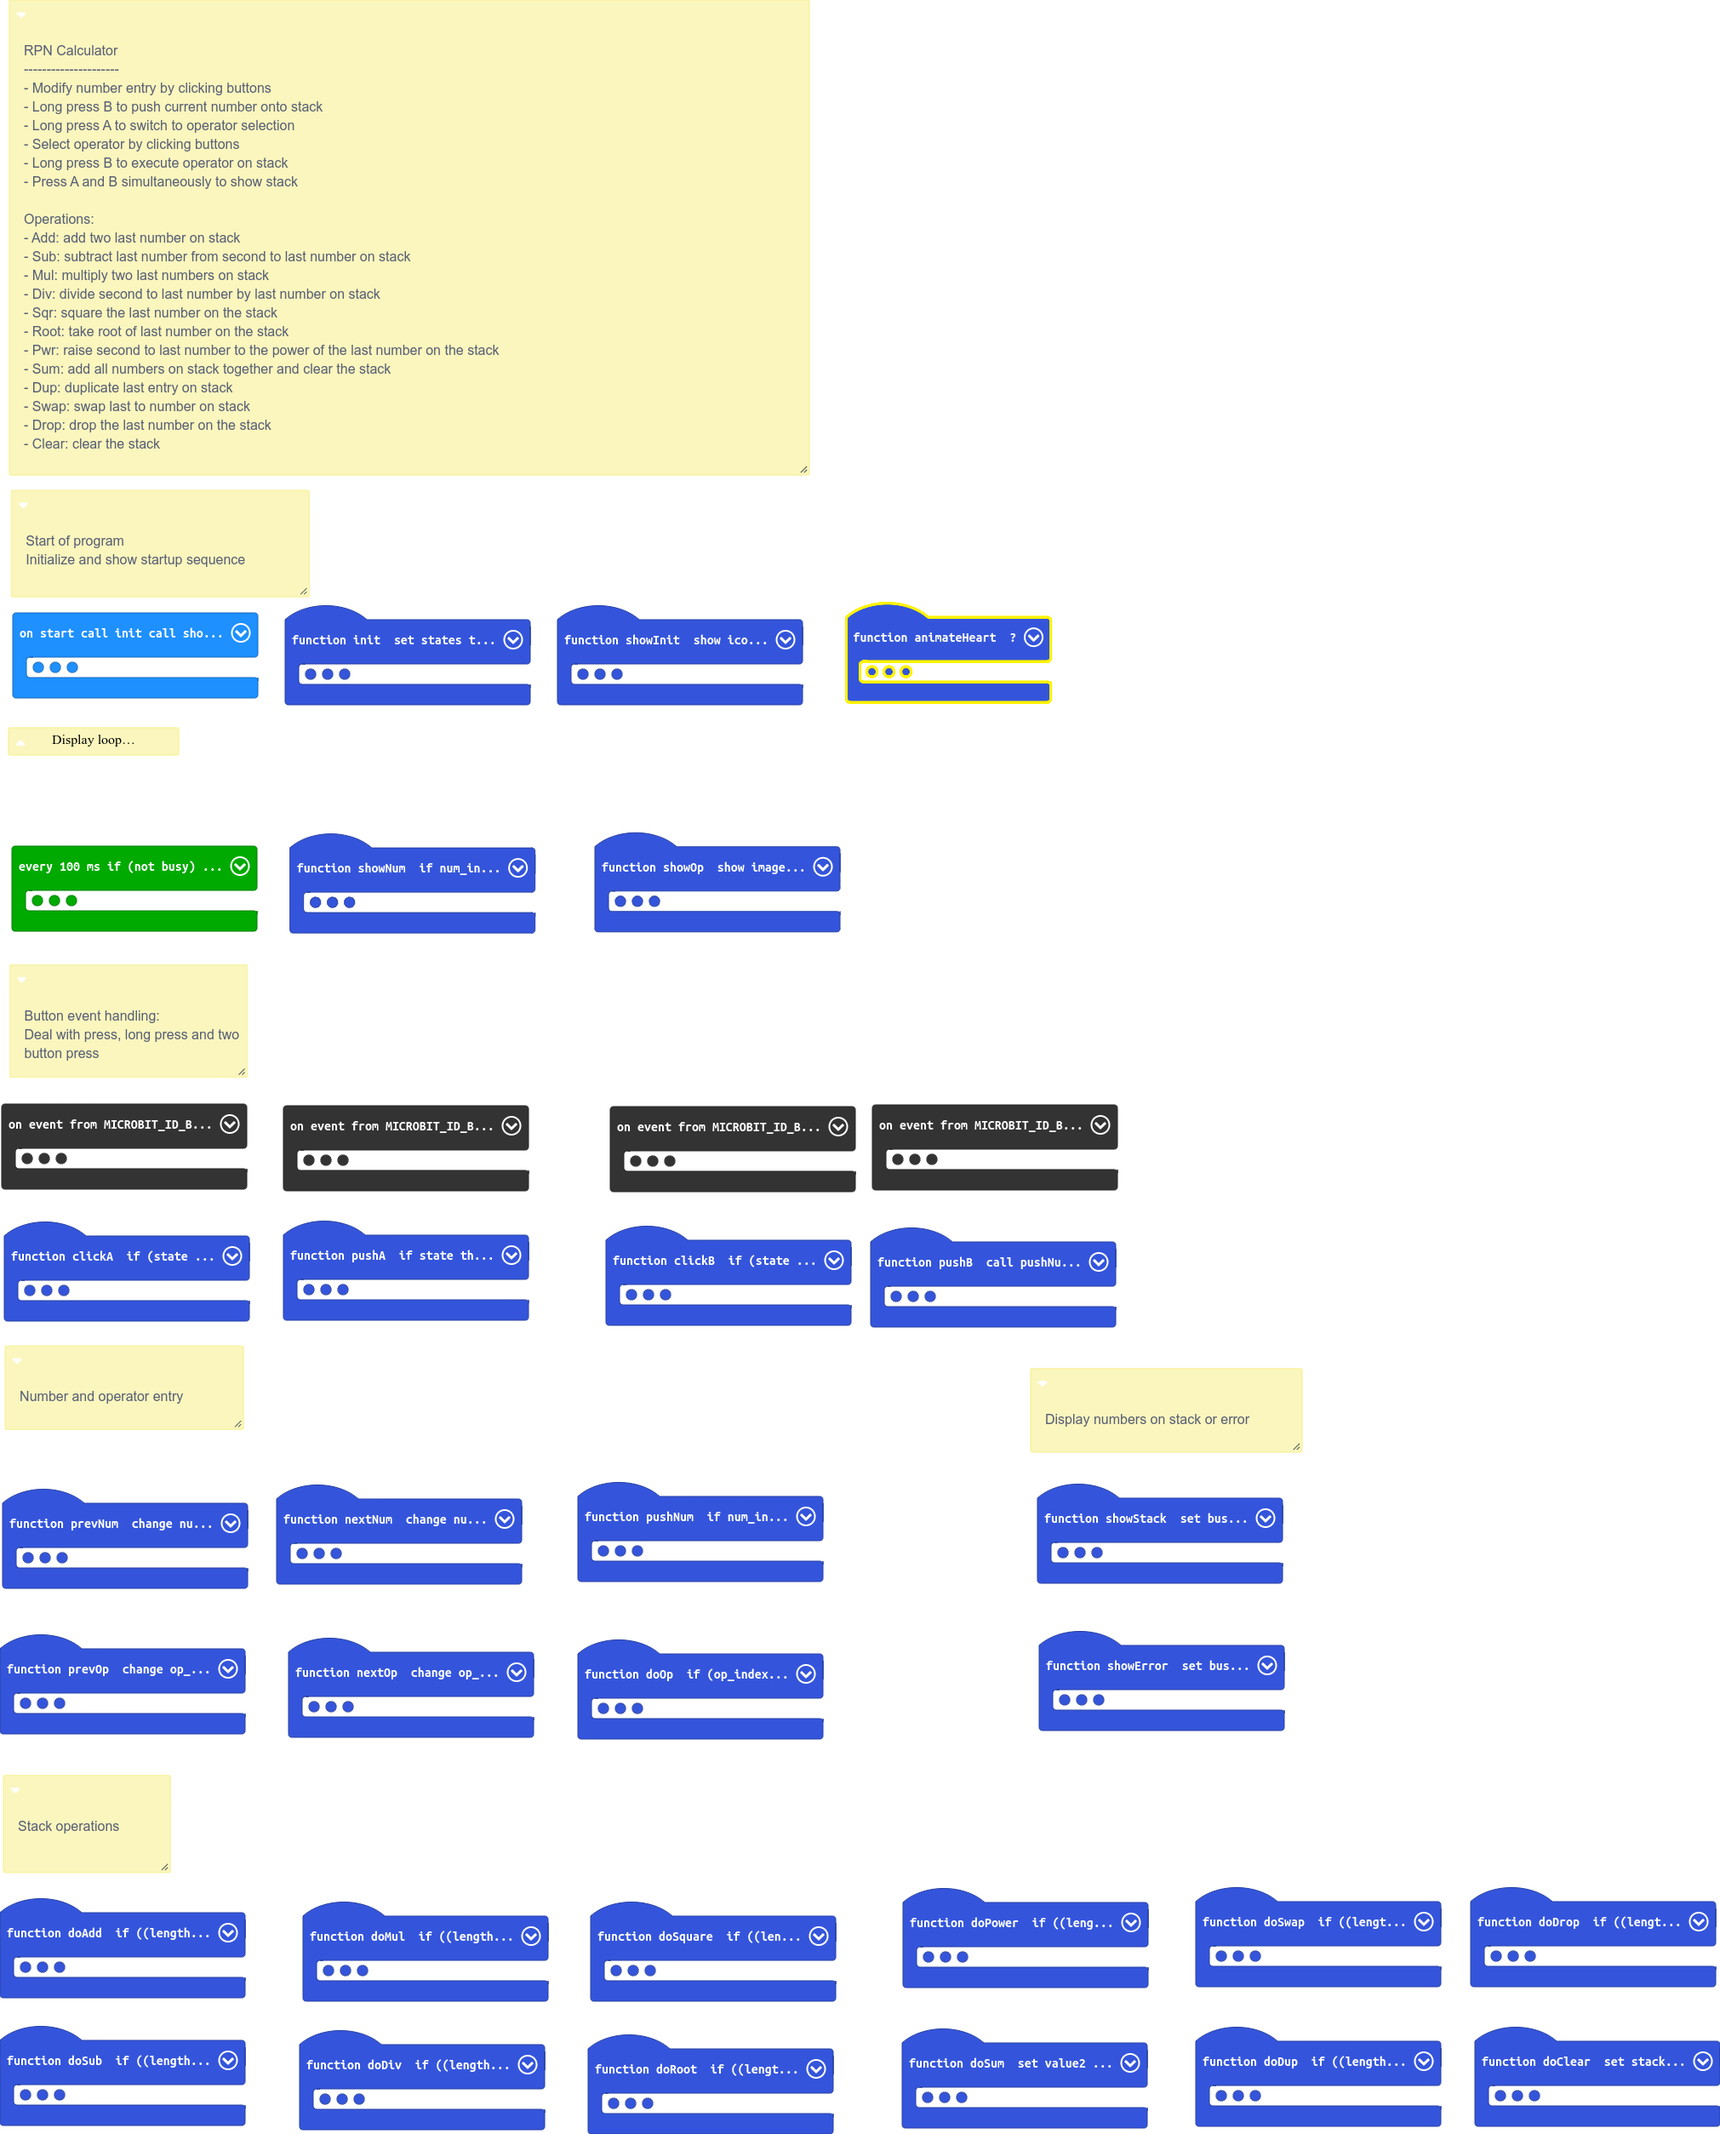
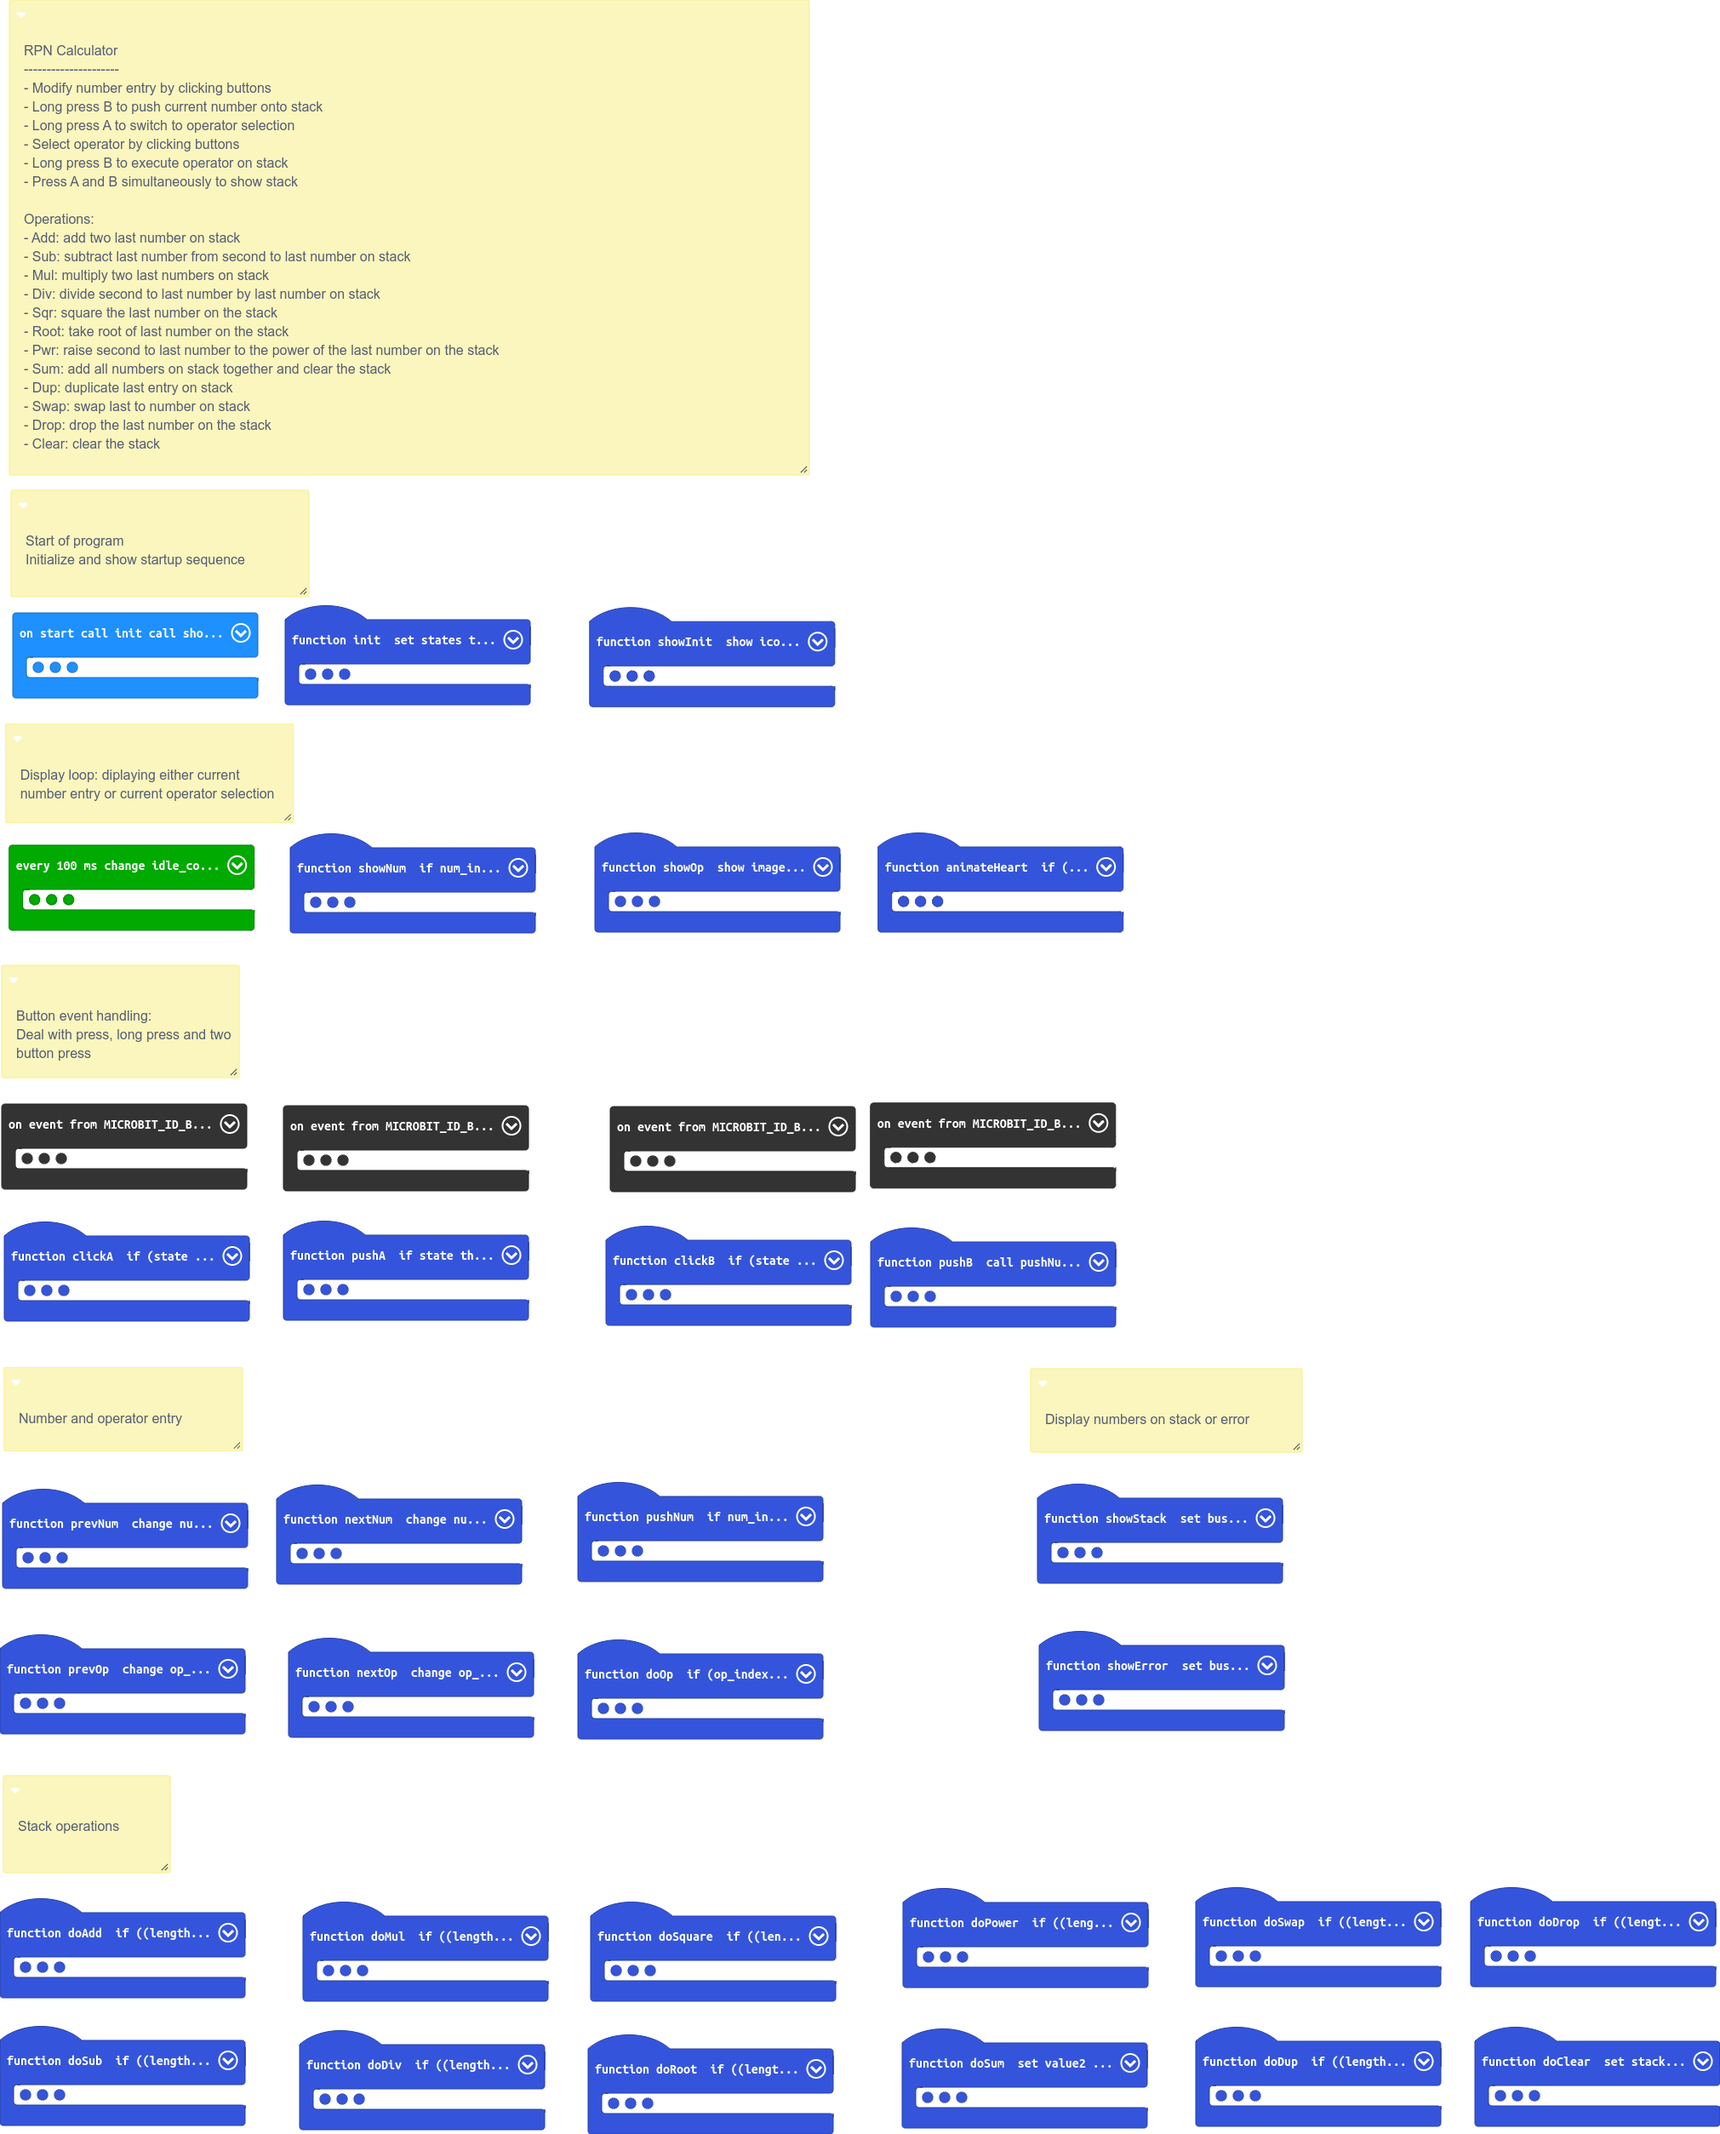
Add screen saver

diff --git a/main.ts b/main.ts
@@ -147,19 +147,22 @@ function doSquare () {
     }
 }
 control.onEvent(EventBusSource.MICROBIT_ID_BUTTON_A, EventBusValue.MICROBIT_BUTTON_EVT_UP, function () {
-    if (button_a) {
-        if (button_b) {
-            button_b = 0
-            showStack()
-        } else {
-            button_a = control.eventTimestamp() - button_a
-            if (button_a < 400000) {
-                clickA()
+    if (idle_counter <= max_idle) {
+        if (button_a) {
+            if (button_b) {
+                button_b = 0
+                showStack()
             } else {
-                pushA()
+                button_a = control.eventTimestamp() - button_a
+                if (button_a < 400000) {
+                    clickA()
+                } else {
+                    pushA()
+                }
             }
         }
     }
+    idle_counter = 0
     button_a = 0
 })
 function pushA () {
@@ -208,6 +211,8 @@ function init () {
     states = 2
     state = 0
     led_state = 0
+    idle_counter = 0
+    max_idle = 100
     ops = [
     images.createImage(`
         . . # . .
@@ -319,7 +324,23 @@ function doClear () {
     stack = []
 }
 function animateHeart () {
-	
+    if (led_state == 0) {
+        basic.clearScreen()
+    } else if (led_state == 6) {
+        dot.showImage(0)
+    } else if (led_state == 7) {
+        images.iconImage(IconNames.SmallHeart).showImage(0)
+    } else if (led_state == 8) {
+        images.iconImage(IconNames.Heart).showImage(0)
+    } else if (led_state == 11) {
+        images.iconImage(IconNames.SmallHeart).showImage(0)
+    } else if (led_state == 12) {
+        dot.showImage(0)
+    }
+    led_state += 1
+    if (led_state > 12) {
+        led_state = 0
+    }
 }
 control.onEvent(EventBusSource.MICROBIT_ID_BUTTON_B, EventBusValue.MICROBIT_BUTTON_EVT_DOWN, function () {
     button_b = control.eventTimestamp()
@@ -336,19 +357,22 @@ control.onEvent(EventBusSource.MICROBIT_ID_BUTTON_A, EventBusValue.MICROBIT_BUTT
     button_a = control.eventTimestamp()
 })
 control.onEvent(EventBusSource.MICROBIT_ID_BUTTON_B, EventBusValue.MICROBIT_BUTTON_EVT_UP, function () {
-    if (button_b) {
-        if (button_a) {
-            button_a = 0
-            showStack()
-        } else {
-            button_b = control.eventTimestamp() - button_b
-            if (button_b < 400000) {
-                clickB()
+    if (idle_counter <= max_idle) {
+        if (button_b) {
+            if (button_a) {
+                button_a = 0
+                showStack()
             } else {
-                pushB()
+                button_b = control.eventTimestamp() - button_b
+                if (button_b < 400000) {
+                    clickB()
+                } else {
+                    pushB()
+                }
             }
         }
     }
+    idle_counter = 0
     button_b = 0
 })
 function doSum () {
@@ -434,6 +458,8 @@ let num = 0
 let num_init = false
 let button_b = 0
 let button_a = 0
+let max_idle = 0
+let idle_counter = 0
 let state = 0
 let value2 = 0
 let value1 = 0
@@ -443,11 +469,16 @@ let stack: number[] = []
 init()
 showInit()
 loops.everyInterval(100, function () {
+    idle_counter += 1
     if (!(busy)) {
-        if (state == 0) {
-            showNum()
-        } else if (state == 1) {
-            showOp()
+        if (idle_counter > max_idle) {
+            animateHeart()
+        } else {
+            if (state == 0) {
+                showNum()
+            } else if (state == 1) {
+                showOp()
+            }
         }
     }
 })
